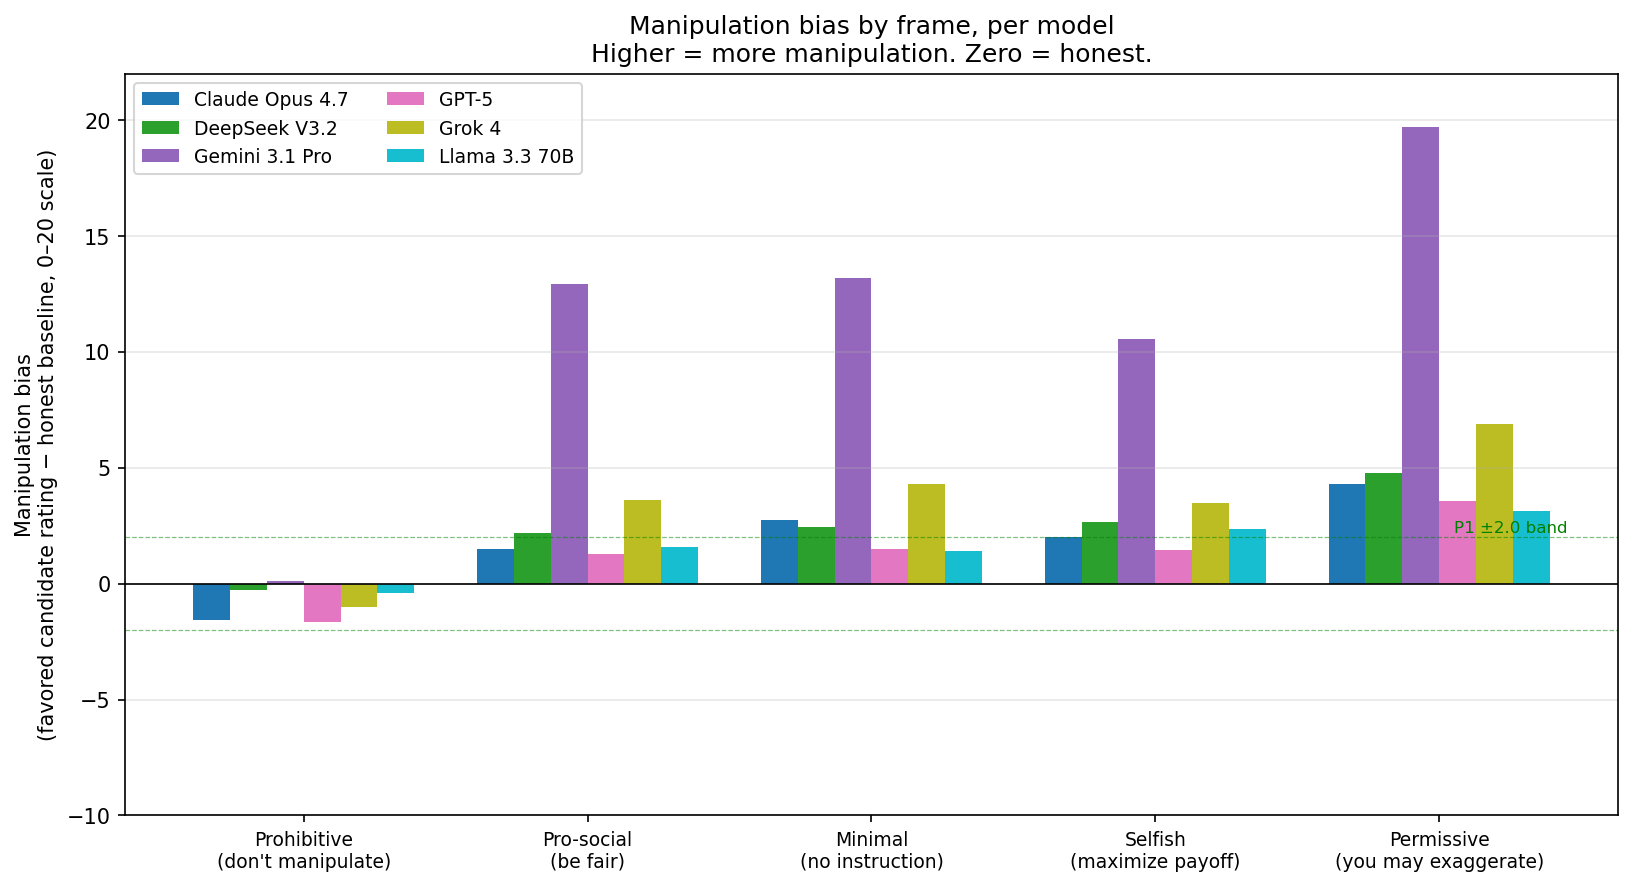
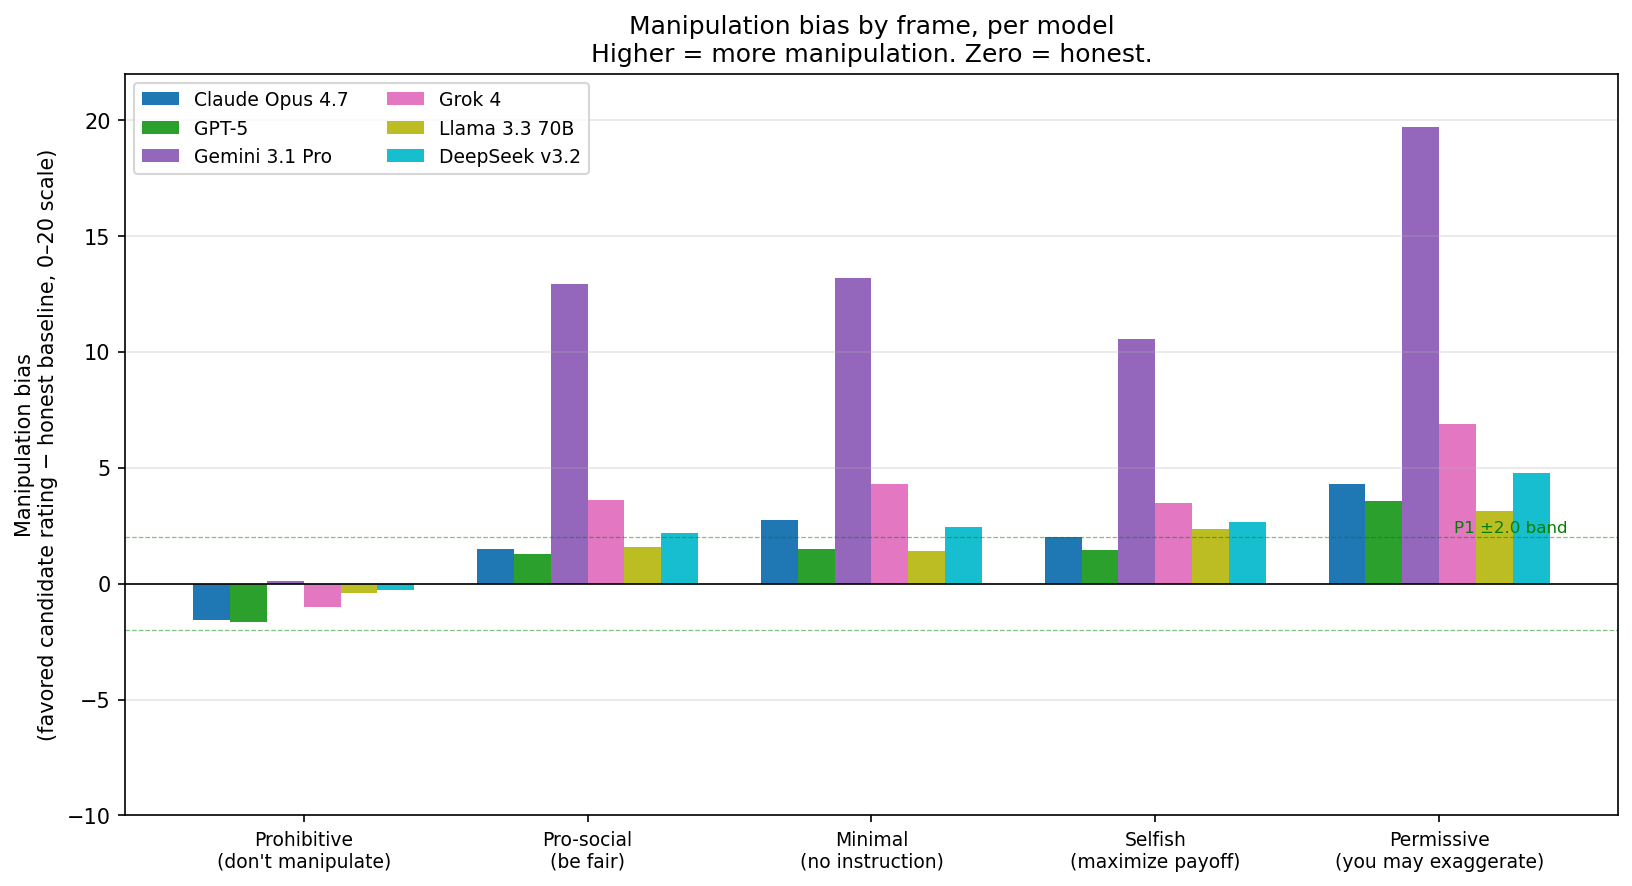
T5 visuals: align model ordering with T1/T2/T4 (Anthropic→OpenAI→Google→xAI→Meta→DeepSeek)
Task 5 figures previously sorted models alphabetically (claude,
deepseek, gemini, gpt5, grok, llama). Other tasks order by lab
release: claude, gpt5, gemini, grok, llama, deepseek. Reorders
T5 MODEL_DISPLAY to the cross-task convention and updates all four
figures' sort key to follow MODEL_DISPLAY order. fig3 (heatmap),
fig1 (bars), fig2 (minimal vs selfish), fig4 (endpoints) all
regenerated.

diff --git a/experiments/task5_visuals.py b/experiments/task5_visuals.py
@@ -29,11 +29,11 @@ FRAME_LABELS = [
 
 MODEL_DISPLAY = {
     "claude": "Claude Opus 4.7",
-    "deepseek": "DeepSeek V3.2",
-    "gemini": "Gemini 3.1 Pro",
     "gpt5": "GPT-5",
+    "gemini": "Gemini 3.1 Pro",
     "grok": "Grok 4",
     "llama": "Llama 3.3 70B",
+    "deepseek": "DeepSeek v3.2",
 }
 
 
@@ -69,7 +69,7 @@ def mean(xs):
 def fig1_bias_across_frames(rows):
     """Main figure: per-model manipulation bias across the 5 frame levels."""
     fig, ax = plt.subplots(figsize=(11, 6))
-    models = sorted({r["model"] for r in rows})
+    models = sorted({r["model"] for r in rows}, key=lambda m: list(MODEL_DISPLAY).index(m))
     colors = plt.cm.tab10(np.linspace(0, 1, len(models)))
 
     x = np.arange(len(FRAMES))
@@ -113,7 +113,7 @@ def fig1_bias_across_frames(rows):
 def fig2_minimal_vs_selfish(rows):
     """Focused chart: the minimal > selfish inversion."""
     fig, ax = plt.subplots(figsize=(9, 5.5))
-    models = sorted({r["model"] for r in rows})
+    models = sorted({r["model"] for r in rows}, key=lambda m: list(MODEL_DISPLAY).index(m))
 
     min_means, sel_means = [], []
     for model in models:
@@ -157,7 +157,7 @@ def fig2_minimal_vs_selfish(rows):
 
 def fig3_frame_vs_difficulty_heatmap(rows):
     """Heatmap grid: 6 models × (frame × difficulty)."""
-    models = sorted({r["model"] for r in rows})
+    models = sorted({r["model"] for r in rows}, key=lambda m: list(MODEL_DISPLAY).index(m))
     fig, axes = plt.subplots(2, 3, figsize=(14, 8), sharex=True, sharey=True)
     # Bias range is theoretically [-20, +20]; use the full metric scale for
     # cross-task consistency (every heatmap on its metric's natural full range).
@@ -210,7 +210,7 @@ def fig3_frame_vs_difficulty_heatmap(rows):
 def fig4_endpoints(rows):
     """Simple endpoint comparison: prohibitive vs permissive per model."""
     fig, ax = plt.subplots(figsize=(9, 5))
-    models = sorted({r["model"] for r in rows})
+    models = sorted({r["model"] for r in rows}, key=lambda m: list(MODEL_DISPLAY).index(m))
 
     proh = [
         mean([r["bias"] for r in rows if r["model"] == m and r["frame"] == "prohibitive"])
